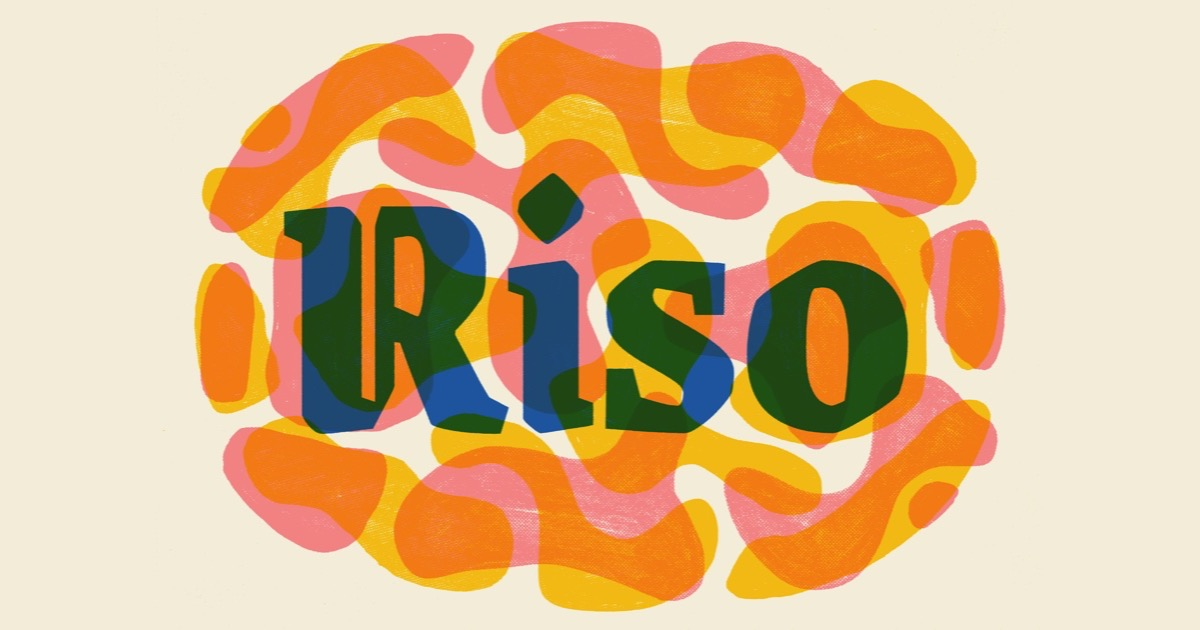
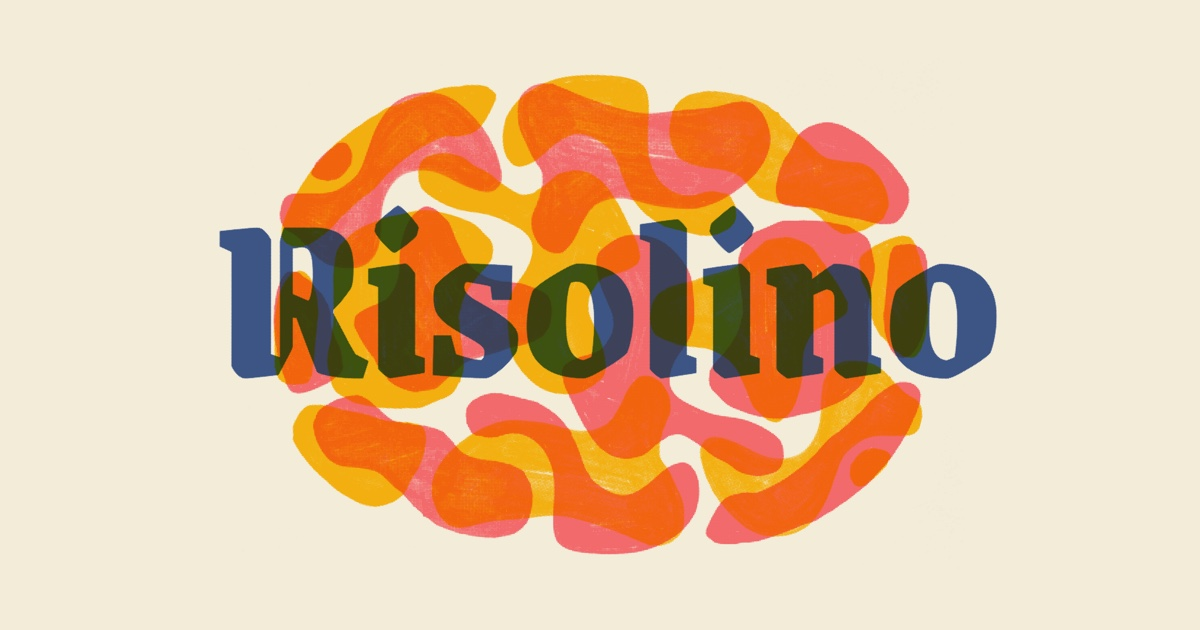
New share image: 'Risolino' print, rotated and extended to 1200×630

diff --git a/index.html b/index.html
@@ -34,7 +34,7 @@
         <meta property="og:image:type" content="image/jpeg" />
         <meta property="og:image:width" content="1200" />
         <meta property="og:image:height" content="630" />
-        <meta property="og:image:alt" content="Overprinted riso inks spelling ‘Riso’ in warm orange, yellow, pink and green." />
+        <meta property="og:image:alt" content="‘Risolino’ overprinted in blue and green riso inks on warm orange, yellow and pink shapes." />
 
         <!-- Twitter / X -->
         <meta name="twitter:card" content="summary_large_image" />
